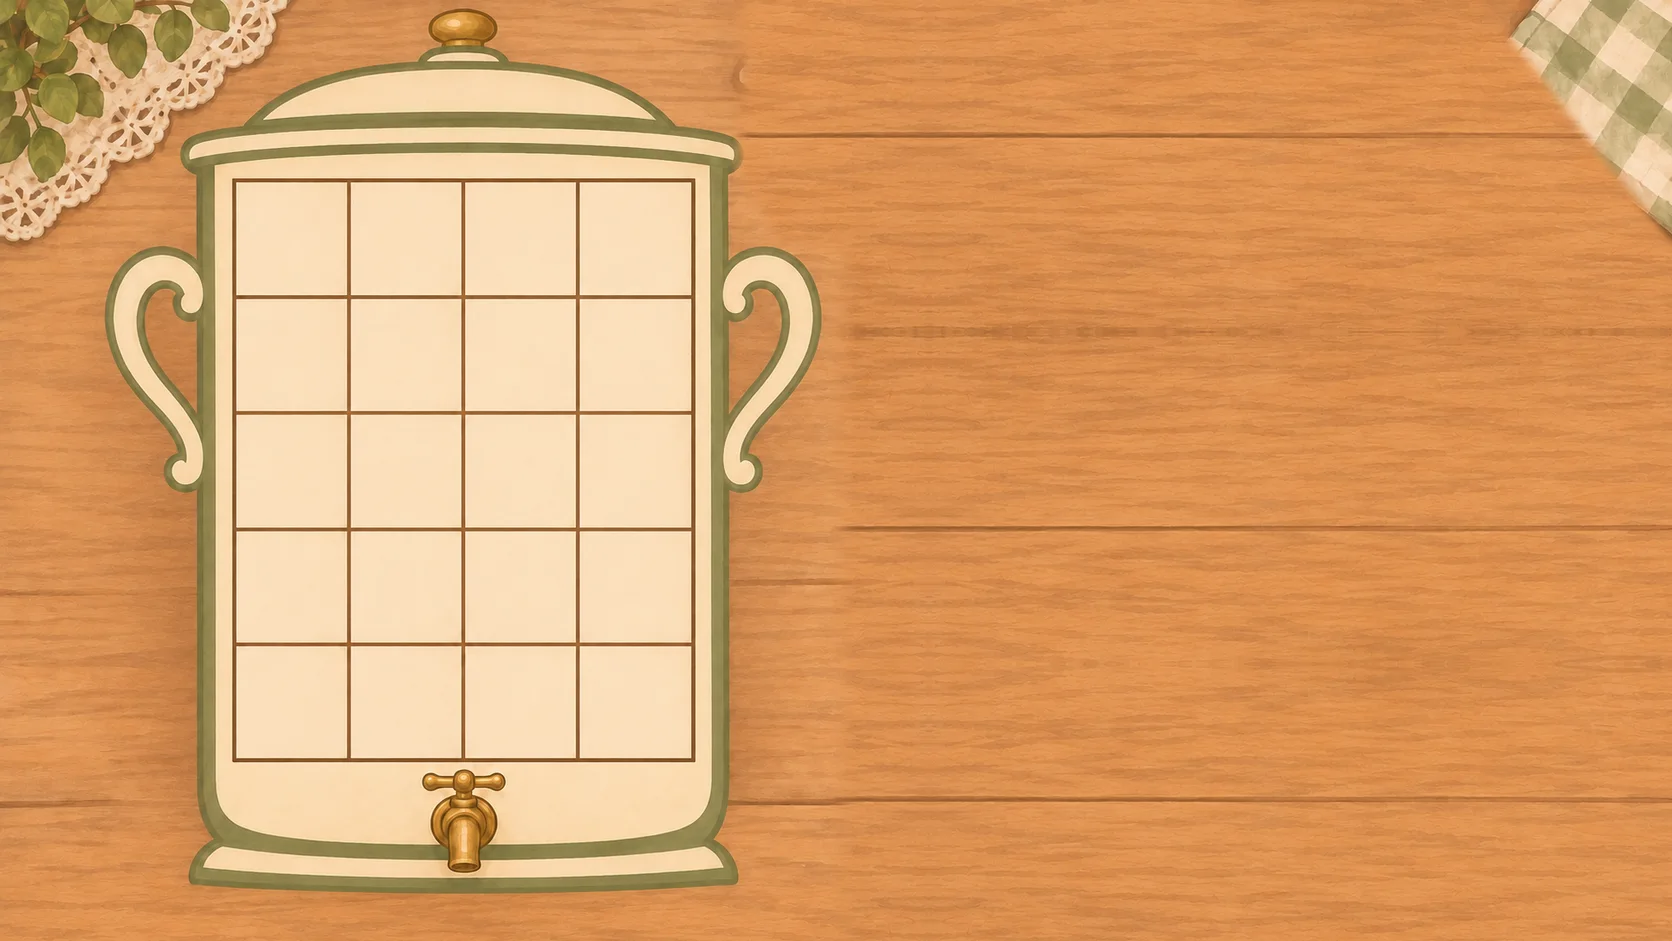
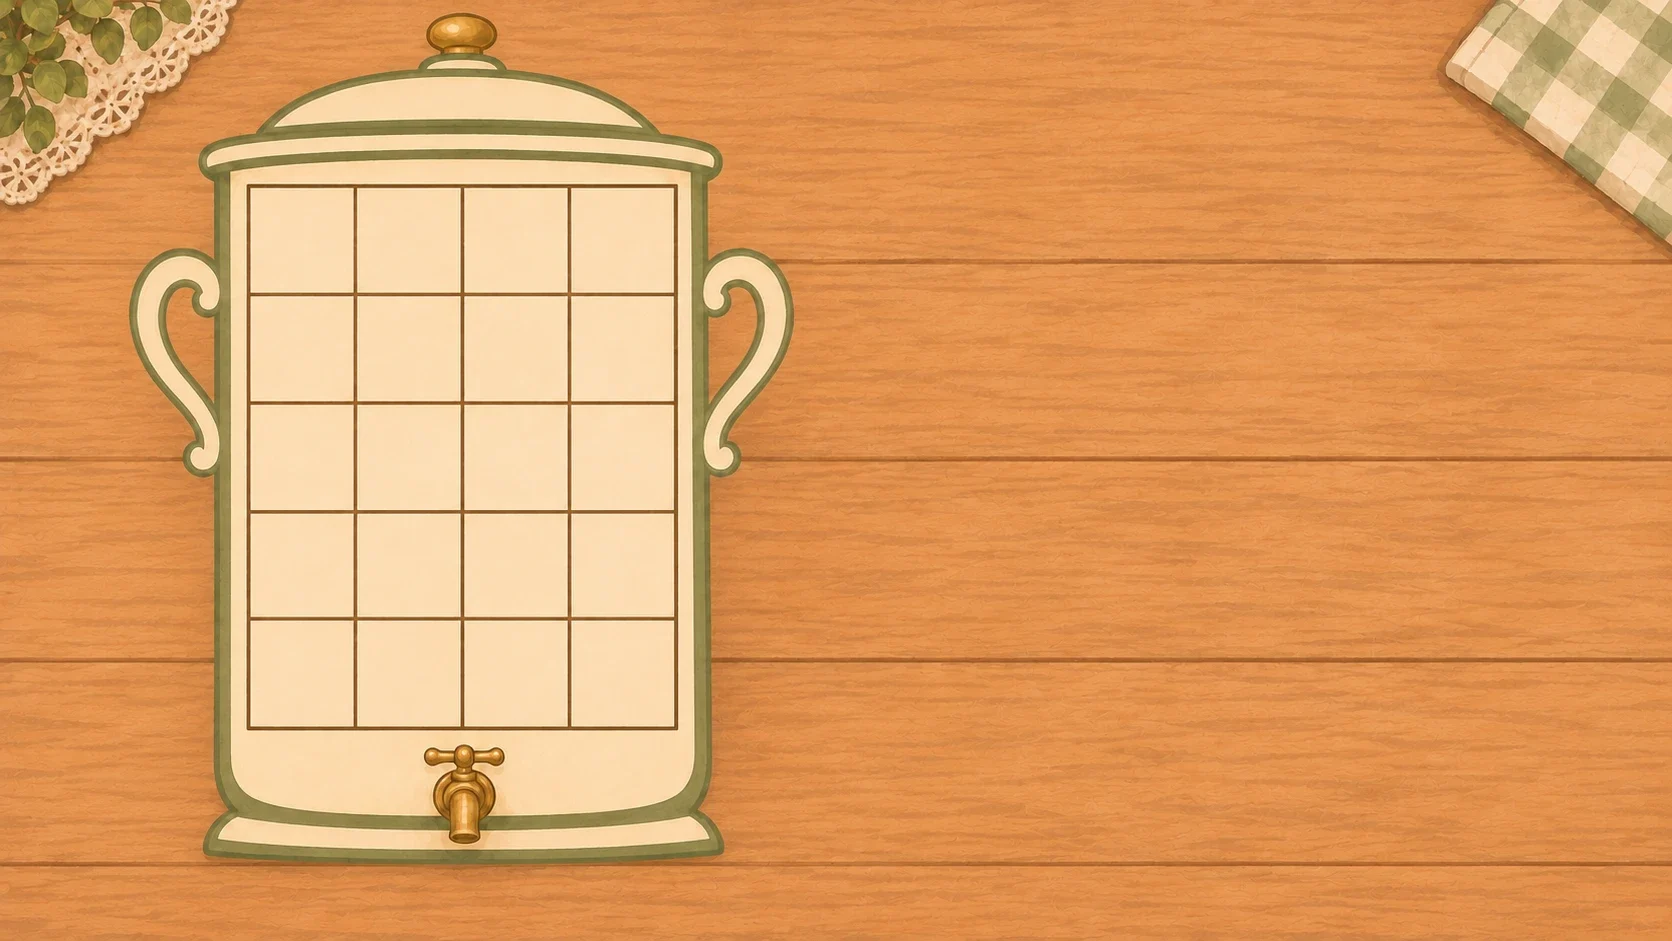
Tea urn: use the supplied landscape art; never extend the art, blur the 作業場 behind it
- New landscape background with the grid measured from it
- The background always fits whole on screen; the area around it shows the workshop
  blurred under a 70% overlay; the tray sits on the desk inside the art

Claude-Session: https://claude.ai/code/session_01QAfQwgfvNpzjbhC7GcuhyV

diff --git a/guinny-garden/js/minigames/brew.js b/guinny-garden/js/minigames/brew.js
@@ -24,8 +24,8 @@ export const PIECES = {
 };
 // Where the grid sits on each background (% of the image), measured from the art
 const BG = {
-  portrait:  { src: `${IMG}bg-portrait.webp`,  W: 1086, H: 1448, grid: [25.18, 14.54, 49.45, 46.82], keep: [0.08, 0, 0.92, 0.74] },
-  landscape: { src: `${IMG}bg-landscape.webp`, W: 1672, H: 941,  grid: [13.99, 19.14, 27.47, 61.64], keep: [0, 0.01, 0.5, 0.93] },
+  portrait:  { src: `${IMG}bg-portrait.webp`,  W: 1086, H: 1448, grid: [25.18, 14.54, 49.45, 46.82] },
+  landscape: { src: `${IMG}bg-landscape.webp`, W: 1672, H: 941,  grid: [14.83, 19.71, 25.57, 57.65] },
 };
 
 // rotate a shape 90° clockwise (screen coordinates), keeping it in the top-left corner
@@ -46,13 +46,13 @@ export function brewPhase(g, recipe) {
     g.hint('Fill every square of the urn. Tap a piece in the tray to turn it.');
     g.stage.innerHTML = `
       <div class="urn-scene">
-        <div class="urn-canvas"><img class="urn-bg" alt="" draggable="false"><img class="urn-ext" alt="" draggable="false">
+        <div class="urn-canvas"><img class="urn-bg" alt="" draggable="false">
           <div class="urn-grid">${Array.from({ length: COLS * ROWS }, (_, i) => `<i data-c="${i}"></i>`).join('')}<div class="urn-pieces"></div><div class="urn-steam"></div></div>
-        </div>
-        <div class="urn-tray">
-          <button class="tray-arrow prev" aria-label="Previous">◀</button>
-          <div class="tray-track"></div>
-          <button class="tray-arrow next" aria-label="Next">▶</button>
+          <div class="urn-tray">
+            <button class="tray-arrow prev" aria-label="Previous">◀</button>
+            <div class="tray-track"></div>
+            <button class="tray-arrow next" aria-label="Next">▶</button>
+          </div>
         </div>
       </div>`;
     const scene = $('.urn-scene', g.stage), canvas = $('.urn-canvas', scene), gridEl = $('.urn-grid', scene);
@@ -63,15 +63,12 @@ export function brewPhase(g, recipe) {
       const W = scene.clientWidth, H = scene.clientHeight;
       if (!W || !H) return;
       const no = W >= H * 1.15 ? 'landscape' : 'portrait';
-      if (no !== o) { o = no; scene.dataset.o = o; $$('.urn-bg, .urn-ext', scene).forEach((im) => { im.src = BG[o].src; }); }
-      const b = BG[o], tr = tray.getBoundingClientRect(), sr = scene.getBoundingClientRect();
-      // free area for the urn (not covered by the tray)
-      const area = o === 'portrait' ? { w: W, h: tr.top - sr.top } : { w: tr.left - sr.left, h: H };
-      const [x0, y0, x1, y1] = b.keep;
-      const s = Math.min(area.w / (b.W * (x1 - x0)), area.h / (b.H * (y1 - y0)), Math.max(W / b.W, H / b.H));
+      if (no !== o) { o = no; scene.dataset.o = o; $('.urn-bg', scene).src = BG[o].src; }
+      // the whole background fits on screen (never cropped or extended);
+      // the space around it shows the blurred 作業場 behind the mini-game
+      const b = BG[o], s = Math.min(W / b.W, H / b.H);
       const cw = b.W * s, ch = b.H * s;
-      const left = o === 'portrait' ? (W - cw) / 2 : Math.min(0, area.w / 2 - ((x0 + x1) / 2) * cw);
-      const top = Math.min(0, area.h / 2 - ((y0 + y1) / 2) * ch) + (o === 'portrait' ? Math.max(0, (area.h - (y1 - y0) * ch) / 2) : 0);
+      const left = (W - cw) / 2, top = (H - ch) / 2;
       Object.assign(canvas.style, { width: `${cw}px`, height: `${ch}px`, left: `${left}px`, top: `${top}px` });
       const [gl, gt, gw, gh] = b.grid;
       Object.assign(gridEl.style, { left: `${gl}%`, top: `${gt}%`, width: `${gw}%`, height: `${gh}%` });

diff --git a/guinny-garden/css/style.css b/guinny-garden/css/style.css
@@ -992,7 +992,8 @@ body.nav-open .shop-hint { opacity: 0; transform: translateY(8px); }
 /* ====================================================================
    Tea brewing urn (js/minigames/brew.js) — user art in assets/img/brew
    ==================================================================== */
-.mg-urn { padding: 0; background: #DA8E4E; }
+/* the art is never extended: around it, the 作業場 shows through blurred under a 70% overlay */
+.mg-urn { padding: 0; background: rgba(94, 69, 53, .7); -webkit-backdrop-filter: blur(12px); backdrop-filter: blur(12px); }
 .mg-urn .mg-stage { position: absolute; inset: 0; display: block; padding: 0; }
 .mg-urn .mg-top { position: absolute; z-index: 5; left: calc(10px + var(--safe-l)); right: calc(10px + var(--safe-r)); top: calc(8px + var(--safe-t)); pointer-events: none; align-items: center; }
 .mg-urn .mg-title { flex: 0 1 auto; background: rgba(255, 252, 246, .92); border: 2px solid var(--line); border-radius: 18px; padding: 4px 12px 6px; box-shadow: var(--shadow); pointer-events: auto; }
@@ -1045,3 +1046,10 @@ body.nav-open .shop-hint { opacity: 0; transform: translateY(8px); }
 @media (orientation: landscape) {
   .mg-urn .mg-hint { left: calc(10px + var(--safe-l)); transform: none; top: auto; bottom: calc(10px + var(--safe-b)); max-width: 50vw; }
 }
+
+/* tray sits on the desk inside the art */
+.urn-canvas .urn-tray { border-width: clamp(14px, 2.4vmin, 26px); border-image-width: clamp(14px, 2.4vmin, 26px); }
+.urn-scene[data-o="portrait"] .urn-canvas .urn-tray { left: 7.2%; right: 7%; top: 73%; bottom: 2.2%; height: auto; }
+.urn-scene[data-o="landscape"] .urn-canvas .urn-tray { left: 50%; right: 4%; top: 9%; bottom: 9%; width: auto; }
+.urn-canvas .tray-label { font-size: clamp(.58rem, 1.6vmin, .74rem); }
+.urn-canvas .tray-count { min-width: 22px; height: 22px; font-size: .7rem; }

diff --git a/guinny-garden/sw.js b/guinny-garden/sw.js
@@ -1,5 +1,5 @@
 // Offline cache for the prototype. Bump VERSION when files change.
-const VERSION = 'gg-v15';
+const VERSION = 'gg-v16';
 const FILES = [
   './', 'index.html', 'css/style.css', 'manifest.webmanifest',
   'js/main.js', 'js/state.js', 'js/data.js', 'js/art.js', 'js/ui.js',
